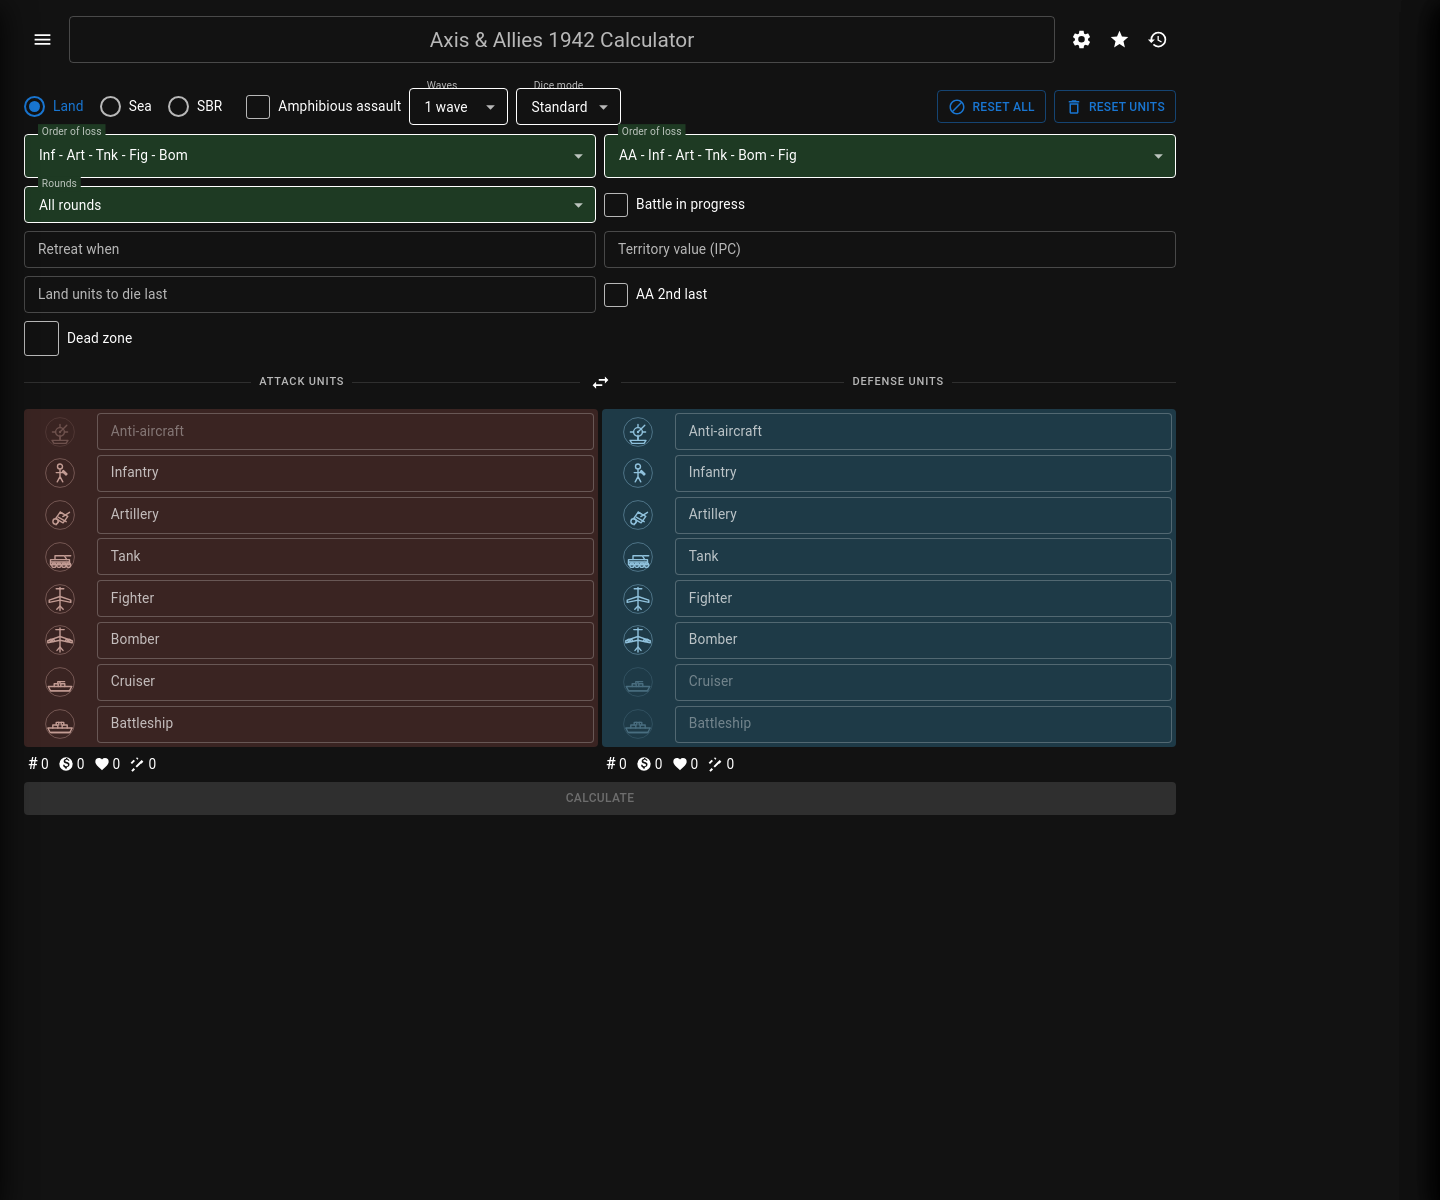
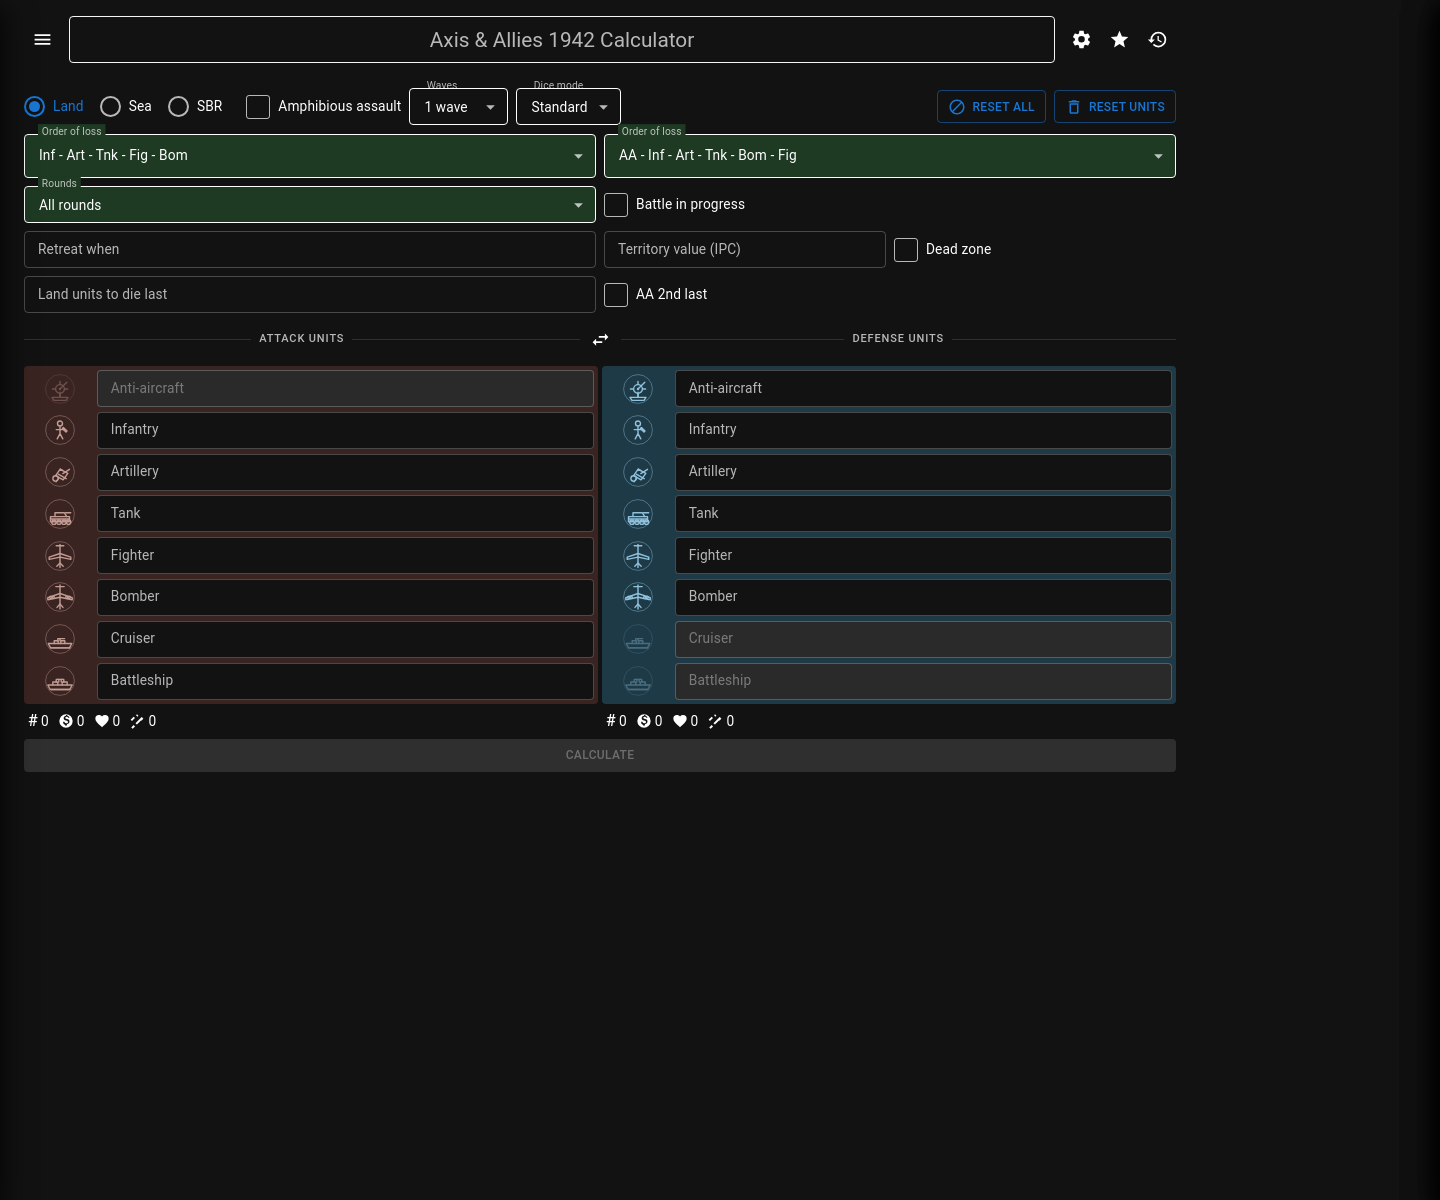
grey out illegal unit fields.

Changed region(s): [[0.0, 0.2775, 0.8438, 0.6783], [0.625, 0.185, 0.6875, 0.2158], [0.8125, 0.3083, 0.8438, 0.3392]]

diff --git a/frontend/redesign/src/beta.css b/frontend/redesign/src/beta.css
@@ -35,6 +35,7 @@
   --beta-text: rgba(0, 0, 0, 0.87);
   --beta-text-secondary: rgba(0, 0, 0, 0.6);
   --beta-text-disabled: rgba(0, 0, 0, 0.38);
+  --beta-disabled-bg: #f5f5f5;
   --beta-divider: #e0e0e0;
   --beta-border: rgba(0, 0, 0, 0.23);
   --beta-border-strong: rgba(0, 0, 0, 0.42);
@@ -63,6 +64,7 @@
   --beta-text: #ffffff;
   --beta-text-secondary: rgba(255, 255, 255, 0.7);
   --beta-text-disabled: rgba(255, 255, 255, 0.38);
+  --beta-disabled-bg: #2a2a2a;
   --beta-divider: rgba(255, 255, 255, 0.12);
   --beta-border: rgba(255, 255, 255, 0.23);
   --beta-border-strong: rgba(255, 255, 255, 0.5);
@@ -962,16 +964,12 @@ button {
 }
 
 .unit-row .field {
-  --field-bg: transparent;
+  --field-bg: var(--beta-bg);
   height: 37px;
 }
 
-.unit-group__body--attack .field {
-  --field-bg: var(--beta-attack-bg);
-}
-
-.unit-group__body--defense .field {
-  --field-bg: var(--beta-defense-bg);
+.unit-row .field--disabled {
+  --field-bg: var(--beta-disabled-bg);
 }
 
 .unit-row .field__label {

diff --git a/frontend/redesign/README.md b/frontend/redesign/README.md
@@ -33,7 +33,9 @@ npm run preview -- --port 5175
 - **Unit grid** — per-wave columns with attack/defense colours, summary stats,
   side swap and wave swap. Single-wave layouts show the unit icon next to the
   input; multi-wave desktop shows the icon once per unit row; multi-wave mobile
-  drops icons entirely so the wave inputs get the full width.
+  drops icons entirely so the wave inputs get the full width. Legal unit-count
+  fields use the page surface (white/black); units that are illegal for the
+  current mode are greyed out with a disabled background.
 - **Results** — rounds, attacker survives/conquers, defender survives,
   attacker/defender IPC, attacker profit, 95/68/50/32/5% confidence chips, and
   full attacker/defender casualty tables. The green “or better” and red “or

diff --git a/frontend/redesign/AGENTS.md b/frontend/redesign/AGENTS.md
@@ -35,7 +35,9 @@ The app is served at **http://127.0.0.1:5174/aacalc2/redesign/**.
 - Probability calculation is exact. There is no Monte Carlo/Simulations
   control.
 - Unit icons are original inline SVG. Multi-wave desktop shows one icon per
-  unit row; multi-wave mobile drops the icon column entirely.
+  unit row; multi-wave mobile drops the icon column entirely. Legal unit-count
+  fields use the page surface (white/black); illegal units for the current mode
+  get a grey disabled background.
 - Results always show the green “or better” / red “or worse” confidence
   intervals (plus exact probability on desktop). There is no simple-mode table.
   A profit histogram and profit distribution table appear above the casualty
